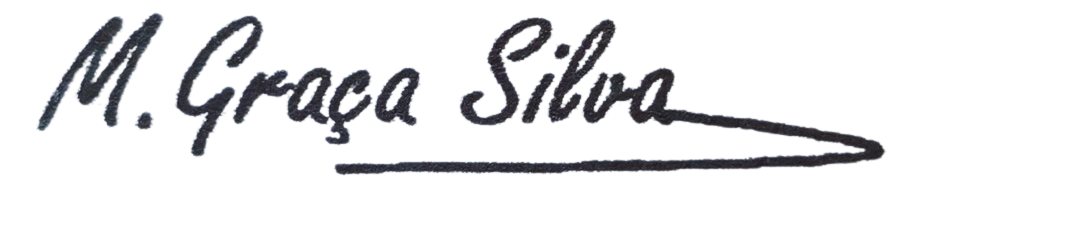
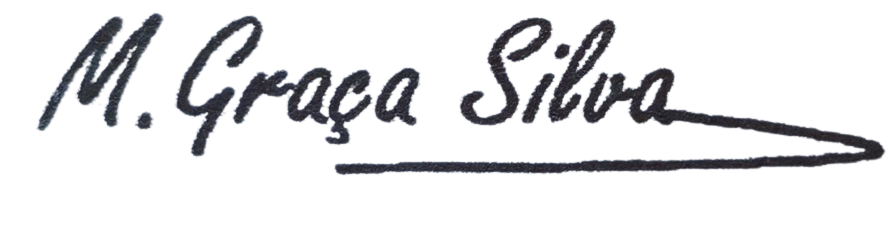
Updated Correção pequenos detalhes

Changed region(s): [[0.0302, 0.0609, 0.9966, 0.7609]]

diff --git a/index.html b/index.html
@@ -28,6 +28,7 @@
             --bg-alt: #E8DFD3;        /* Pó de argila / Bege escuro */
             --text-color: #2F241F;    /* Preto/Cacau muito escuro */
             --accent-color: #8a2a22;  /* Bordeaux requintado */
+            --accent-dark: #651c16;   /* Bordeaux mais escurecido e profundo */
             --accent-alt: #C09F52;    /* Ocre / Dourado mostarda */
             --success-color: #25D366; 
         }
@@ -100,9 +101,9 @@
         .hero-slide { position: absolute; top: 0; left: 0; width: 100%; height: 100%; background-size: cover; background-position: center; opacity: 0; transition: opacity 1.5s ease-in-out; }
         .hero-slide.active { opacity: 1; }
         .hero-slider::after { content: ''; position: absolute; top: 0; left: 0; width: 100%; height: 100%; background: rgba(47, 36, 31, 0.4); z-index: 1; }
-        .hero-title { font-size: clamp(2.5rem, 8vw, 10rem); line-height: 1; margin-bottom: 1rem; overflow: hidden; z-index: 2; text-shadow: 0 10px 30px rgba(0,0,0,0.5); }
+        .hero-title { font-size: clamp(2.5rem, 8vw, 10rem); line-height: 1; margin-bottom: 1rem; overflow: hidden; z-index: 2; text-shadow: 0 10px 40px rgba(0,0,0,0.85); }
         .hero-title span { display: block; transform: translateY(100%); }
-        .hero-subtitle { font-size: clamp(0.9rem, 3vw, 1.2rem); letter-spacing: 2px; text-transform: uppercase; opacity: 0; z-index: 2; text-shadow: 0 5px 15px rgba(0,0,0,0.5); }
+        .hero-subtitle { font-size: clamp(0.9rem, 3vw, 1.2rem); letter-spacing: 2px; text-transform: uppercase; opacity: 0; z-index: 2; text-shadow: 0 5px 15px rgba(0,0,0,0.85); }
 
         .exhibition-intro span, .section-header span, .bio-text-title span, .contact-slogan span { color: var(--accent-color); font-style: italic; }
 
@@ -110,7 +111,7 @@
         .news-section {
             display: none; 
             position: relative;
-            background: linear-gradient(135deg, var(--text-color), #402f27, var(--text-color));
+            background: linear-gradient(135deg, var(--accent-dark), #42110d, var(--accent-dark));
             background-size: 200% 200%;
             color: var(--bg-color);
             padding: 7rem 5vw; 
@@ -280,6 +281,7 @@
         .action-btn { background: transparent; color: var(--bg-color); border: 1px solid var(--bg-color); padding: 0.8rem 1rem; border-radius: 6px; font-family: 'Inter', sans-serif; font-size: 0.9rem; text-align: left; transition: all 0.3s ease; display: flex; justify-content: space-between; align-items: center; }
         .action-btn:hover { background: var(--bg-color); color: var(--text-color); }
         .action-btn.btn-buy:hover { background: var(--accent-color); border-color: var(--accent-color); color: #fff; }
+        .btn-buy.hidden { display: none; } /* Nova classe para ocultar o botão */
 
         /* --- MEDIA QUERIES (Responsividade) --- */
         @media (max-width: 1024px) {
@@ -299,11 +301,45 @@
             .exhibition-intro { width: 85vw; font-size: 2.5rem; }
             .expo-card { width: 80vw; height: 50vh; }
             
-            .gallery-filters-container { flex-direction: column; gap: 1rem; }
-            .filter-group { flex-wrap: wrap; justify-content: center; gap: 0.5rem; }
-            .filter-divider { display: none; }
+            /* --- FILTROS (EM DUAS LINHAS CENTRADAS) --- */
+            .gallery-filters-container { 
+                flex-direction: column; 
+                align-items: center;
+                gap: 1rem; 
+                overflow-x: hidden;
+                padding-bottom: 0;
+            }
+            .filter-group { 
+                display: flex;
+                flex-wrap: wrap; 
+                justify-content: center; 
+                gap: 0.6rem; 
+            }
+            .filter-divider { 
+                display: block; 
+                color: transparent;
+                background-color: var(--text-color); 
+                width: 40px; 
+                height: 2px; 
+                opacity: 0.2; 
+                border-radius: 2px;
+                margin: 0.2rem 0;
+            }
+            .filter-btn { white-space: normal; font-size: 0.85rem; padding: 0.4rem 1rem; }
             
-            .shop-grid { grid-template-columns: 1fr; gap: 1.5rem; }
+            /* --- GALERIA EM 2 COLUNAS (FIM DA CLAUSTROFOBIA) --- */
+            .shop-grid { grid-template-columns: repeat(2, 1fr); gap: 0.8rem; }
+            
+            /* Ajustes para os cartões caberem na perfeição nas 2 colunas */
+            .shop-item { padding: 0.5rem; gap: 0.5rem; border-radius: 8px; }
+            .shop-details { flex-direction: column; gap: 0.4rem; align-items: flex-start; }
+            .shop-details h3 { font-size: 0.85rem; line-height: 1.2; margin-bottom: 0.2rem; }
+            .artwork-code { font-size: 0.6rem; padding: 0.1rem 0.3rem; margin-bottom: 0.1rem; }
+            .status-badge { font-size: 0.65rem; padding: 0.2rem 0.5rem; align-self: flex-start; }
+            
+            /* Ajuste da caixa de seleção do WhatsApp */
+            .select-checkbox { top: 8px; right: 8px; width: 22px; height: 22px; }
+            
             .action-panel { bottom: 0; right: 0; width: 100%; border-radius: 20px 20px 0 0; }
             
             .modal-content { flex-direction: column; height: 90vh; width: 95vw; }
@@ -380,29 +416,29 @@
                 <div class="expo-overlay">Pinturas ao Ar Livre</div>
             </div>
 
-            <div class="expo-card hover-target" data-title="Capela de Fagilde" data-desc="Obra mural inspirada numa cena bíblica na Capela de Fagilde, no concelho de Mangualde, unindo a arte à fé e à comunidade local." data-imgs="image_2024408208_12.jpg,image_2024408208_13.jpg">
+            <div class="expo-card hover-target" data-title="2002 - Capela de Fagilde" data-desc="Obra mural inspirada numa cena bíblica na Capela de Fagilde, no concelho de Mangualde, unindo a arte à fé e à comunidade local." data-imgs="image_2024408208_12.jpg,image_2024408208_13.jpg">
                 <img src="image_2024408208_12.jpg" alt="Capela de Fagilde">
-                <div class="expo-overlay">Capela de Fagilde</div>
+                <div class="expo-overlay">2002 - Capela de Fagilde</div>
             </div>
 
-            <div class="expo-card hover-target" data-title="Exposição na Biblioteca de Aguiar da Beira" data-desc="Esta galeria retrata a exposição realizada na Biblioteca Municipal de Aguiar da Beira, um dia de grande honra que contou com a presença e o prestígio do então Primeiro-Ministro, Dr. José Manuel Durão Barroso." data-imgs="imagem_16.jpeg,imagem_11.jpeg,imagem_12.jpeg,imagem_13.jpeg,imagem_14.jpeg,imagem_15.jpeg,imagem_17.jpeg">
+            <div class="expo-card hover-target" data-title="2003 - Exposição na Biblioteca de Aguiar da Beira" data-desc="Esta galeria retrata a exposição realizada na Biblioteca Municipal de Aguiar da Beira, um dia de grande honra que contou com a presença e o prestígio do então Primeiro-Ministro, Dr. José Manuel Durão Barroso." data-imgs="imagem_16.jpeg,imagem_11.jpeg,imagem_12.jpeg,imagem_13.jpeg,imagem_14.jpeg,imagem_15.jpeg,imagem_17.jpeg">
                 <img src="imagem_16.jpeg" alt="Exposição Biblioteca Aguiar da Beira">
-                <div class="expo-overlay">Exposição na Biblioteca de Aguiar da Beira</div>
+                <div class="expo-overlay">2003 - Exposição na Biblioteca de Aguiar da Beira</div>
             </div>
 
-            <div class="expo-card hover-target" data-title="Capela da Roda – Mangualde" data-desc="Registo de três obras de temática sacra concebidas em exclusivo para a Capela da Roda." data-imgs="image_2024408208_14.jpg,image_2024408208_15.jpg,image_2024408208_16.jpg">
+            <div class="expo-card hover-target" data-title="2007 - Capela da Roda – Mangualde" data-desc="Registo de três obras de temática sacra concebidas em exclusivo para a Capela da Roda." data-imgs="image_2024408208_14.jpg,image_2024408208_15.jpg,image_2024408208_16.jpg">
                 <img src="image_2024408208_15.jpg" alt="Capela da Roda">
-                <div class="expo-overlay">Capela da Roda – Mangualde</div>
+                <div class="expo-overlay">2007 - Capela da Roda – Mangualde</div>
             </div>
 
-            <div class="expo-card hover-target" data-title="Mural Bíblico" data-desc="Execução e processo criativo da pintura mural com cena bíblica na Igreja de Fornos de Maceira Dão." data-imgs="image_2024408208_17.jpg,image_2024408208_18.jpg">
+            <div class="expo-card hover-target" data-title="2013 - Mural Bíblico" data-desc="Execução e processo criativo da pintura mural com cena bíblica na Igreja de Fornos de Maceira Dão." data-imgs="image_2024408208_17.jpg,image_2024408208_18.jpg">
                 <img src="image_2024408208_17.jpg" alt="Mural Bíblico">
-                <div class="expo-overlay">Mural Bíblico</div>
+                <div class="expo-overlay">2013 - Mural Bíblico</div>
             </div>
 
-            <div class="expo-card hover-target" data-title="Igreja de Gradiz - Aguiar da Beira" data-desc="Criação de uma pintura personalizada de Jesus que culminou na enorme concretização de a pintar diretamente no teto da capela, lá do alto dos andaimes." data-imgs="image_2024408208_20.jpg,image_2024408208_19.jpg">
+            <div class="expo-card hover-target" data-title="2014 - Igreja de Gradiz - Aguiar da Beira" data-desc="Criação de uma pintura personalizada de Jesus que culminou na enorme concretização de a pintar diretamente no teto da capela, lá do alto dos andaimes." data-imgs="image_2024408208_20.jpg,image_2024408208_19.jpg">
                 <img src="image_2024408208_20.jpg" alt="Igreja de Gradiz">
-                <div class="expo-overlay">Igreja de Gradiz - Aguiar da Beira</div>
+                <div class="expo-overlay">2014 - Igreja de Gradiz - Aguiar da Beira</div>
             </div>
 
             <div class="expo-card hover-target" data-title="Pintura de Murais Realistas" data-desc="Registo fotográfico de murais realistas pintados à mão diretamente em paredes de casas de clientes, simulando com grande detalhe painéis de azulejo tradicionais." data-imgs="imagem_6.jpeg,image_2024408208_9.jpg,image_2024408208_10.jpg">
@@ -410,9 +446,9 @@
                 <div class="expo-overlay">Pintura de Murais Realistas</div>
             </div>
 
-            <div class="expo-card hover-target" data-title="Presépio em Tamanho Real" data-desc="Presépio em tamanho real composto por vários materiais: Papel kraft, madeira para a manjedoura do menino Jesus, estrados, palhinhas do mesmo papel, cajado, bola de esferovite dividida em duas partes paras fazer de rosto da Nª Senhora e S.José, 2 estruturas em madeira, para sustentar as vestimentas da Nª. Senhora e S.José , tinta de spray prata para pulverizar todo o presépio e por fim o Menino Jesus em porcelana . Esteve exposto na Diocese de Viseu (2018) até 6 de Janeiro." data-imgs="presépio.jpeg">
+            <div class="expo-card hover-target" data-title="2018 - Presépio em Tamanho Real" data-desc="Presépio em tamanho real totalmente artesanal. Produzido com materiais reutilizados e adaptados, como papel kraft e estruturas de madeira para construir as figuras principais à escala humana. A obra esteve em exposição na Diocese de Viseu durante a quadra natalícia." data-imgs="presépio.jpeg">
                 <img src="presépio.jpeg" alt="Presépio em Tamanho Real">
-                <div class="expo-overlay">Presépio em Tamanho Real</div>
+                <div class="expo-overlay">2018 - Presépio em Tamanho Real</div>
             </div>
         </div>
     </section>
@@ -513,7 +549,7 @@
         <button class="action-btn hover-target" data-action="semelhante">
             Pedir Semelhante <span>+</span>
         </button>
-        <button class="action-btn btn-buy hover-target" data-action="comprar">
+        <button class="action-btn btn-buy hover-target" id="btnBuySelection" data-action="comprar">
             Comprar Seleção <span>→</span>
         </button>
     </div>
@@ -622,7 +658,7 @@
                     const html = `
                     <div class="shop-item" data-status="${statusData}" data-type="${typeData}" data-code="${refCode}" data-title="${title}">
                         <div class="shop-image-wrapper">
-                            <img src="${imgUrl}" alt="${title}" class="preview-trigger hover-target">
+                            <img src="${imgUrl}" alt="${title}" loading="lazy" class="preview-trigger hover-target">
                             <div class="preview-icon">👁</div>
                             <div class="select-checkbox hover-target"></div>
                         </div>
@@ -936,6 +972,7 @@
         let selectedArtworks = [];
         const actionPanel = document.getElementById('actionPanel');
         const selectedCountEl = document.getElementById('selectedCount');
+        const btnBuySelection = document.getElementById('btnBuySelection');
 
         function bindGalleryEvents() {
             document.querySelectorAll('.preview-trigger').forEach(trigger => {
@@ -963,6 +1000,14 @@
                     selectedCountEl.textContent = selectedArtworks.length;
                     if (selectedArtworks.length > 0) { actionPanel.classList.add('visible'); } 
                     else { actionPanel.classList.remove('visible'); }
+
+                    // Verifica se TODAS as obras selecionadas estão disponíveis (nenhuma indisponível)
+                    const allAvailable = selectedArtworks.length > 0 && selectedArtworks.every(art => art.status === '[Disponível]');
+                    if(allAvailable) {
+                        btnBuySelection.classList.remove('hidden');
+                    } else {
+                        btnBuySelection.classList.add('hidden');
+                    }
                 });
             });
         }
